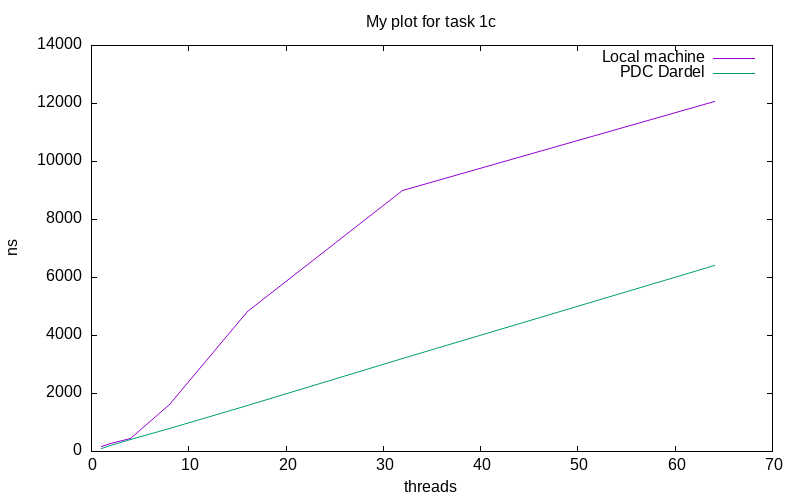
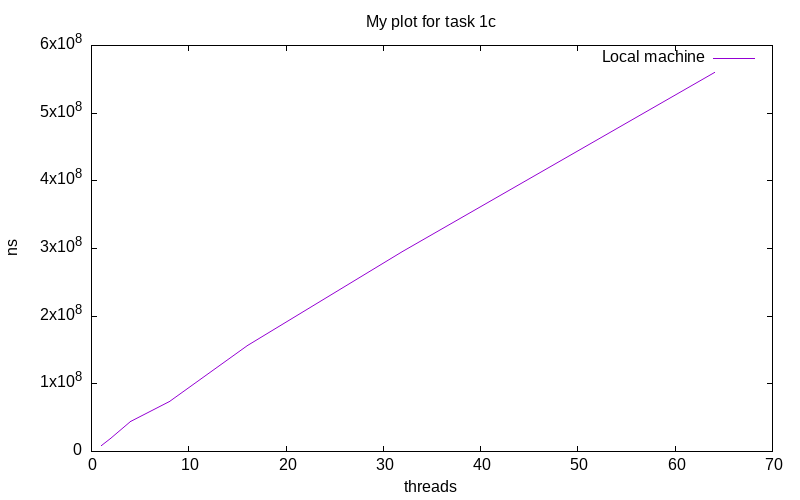
done

diff --git a/lab1-skel/task1/MainC.java b/lab1-skel/task1/MainC.java
@@ -37,18 +37,16 @@ public class MainC {
         
         long endTime = System.nanoTime();
 
-        // Print result
-        // System.out.println(sum);
         sum = 0;
 
 		return endTime - startTime;
 	}
 
 	public static void main(String [] args) {
-        long[] intervals = new long[7];
         String fileName = "task1c_test.dat";
-        int X = 2;
-        int Y = 1;
+        int X = 3;
+        int Y = 3;
+        double[] intervals = new double[Y];
 
         MainC program = new MainC(); // create an instance
         try (PrintWriter out = new PrintWriter(new FileWriter(fileName))) {
@@ -64,14 +62,29 @@ public class MainC {
                 // measurement phase
                 for (int i = 0; i < Y; i++){
                     try {
-                        long timeTaken = program.run_experiments(n);
+                        double timeTaken = program.run_experiments(n);
                         intervals[i] = timeTaken;
                         // out.printf("%d\t%d%n", n, timeTaken);
                     }catch (InterruptedException e) {
                         e.printStackTrace();
                     }
                 }
-                out.printf("%d\t%d%n",n , Arrays.stream(intervals).sum()/7);
+
+                double stdDev = 0;
+                double mean = Arrays.stream(intervals).average().orElse(0.0);
+                double variance = 0.0;
+                for (double t : intervals) {
+                    variance += Math.pow(t - mean, 2);
+                }
+                variance /= (Y - 1); // sample std deviation
+                stdDev = Math.sqrt(variance);
+                System.out.println(mean);
+                System.out.println(stdDev);
+                
+                // System.out.println(Arrays.stream(intervals).sum()/Y);
+
+                // out.printf("%d\t%d%n",n , mean);
+                out.printf("%d\t%.2f\t%.2f%n", n, mean, stdDev);
             }
         }catch (IOException e) {
             e.printStackTrace();

diff --git a/lab1-skel/REPORT.md b/lab1-skel/REPORT.md
@@ -19,7 +19,7 @@ java MainA
 
 Q: Run the program locally with 4 threads. What results do you expect?
 
-As there are no synchronisation mechanisms and the integer is shared, the final result will essentially by random dependent on the execution trace.
+As there are no synchronisation mechanisms and the integer is shared, the final result will essentially be random, depending on the execution trace.
 
 ### Task 1b: Synchronized keyword
 Source files:
@@ -49,7 +49,7 @@ java MainC <N>
 ```
 Where `N` is number of threads to execute with.
 
-In figure 1, we see how the execution time scaled with the number of threads.
+In figure 1, we see how the execution time scaled with the number of threads. It seems to be rather linear. We did unfortunately not manage to get the dardel execution to work. The time it takes for even one thread to finish is a lot longer than the dummy data but 
 ...
 
 ![My plot for task 1c](data/task1c.png)
@@ -121,5 +121,6 @@ java Main
 ```
 
 ## Task 4: Counting Semaphore
+We didn't encounter any specific mistakes. The semaphore does not exceed the initial counter value. The semaphore only deadlocks when there are 0 resources.
 
 ## Task 5: Dining Philosophers
